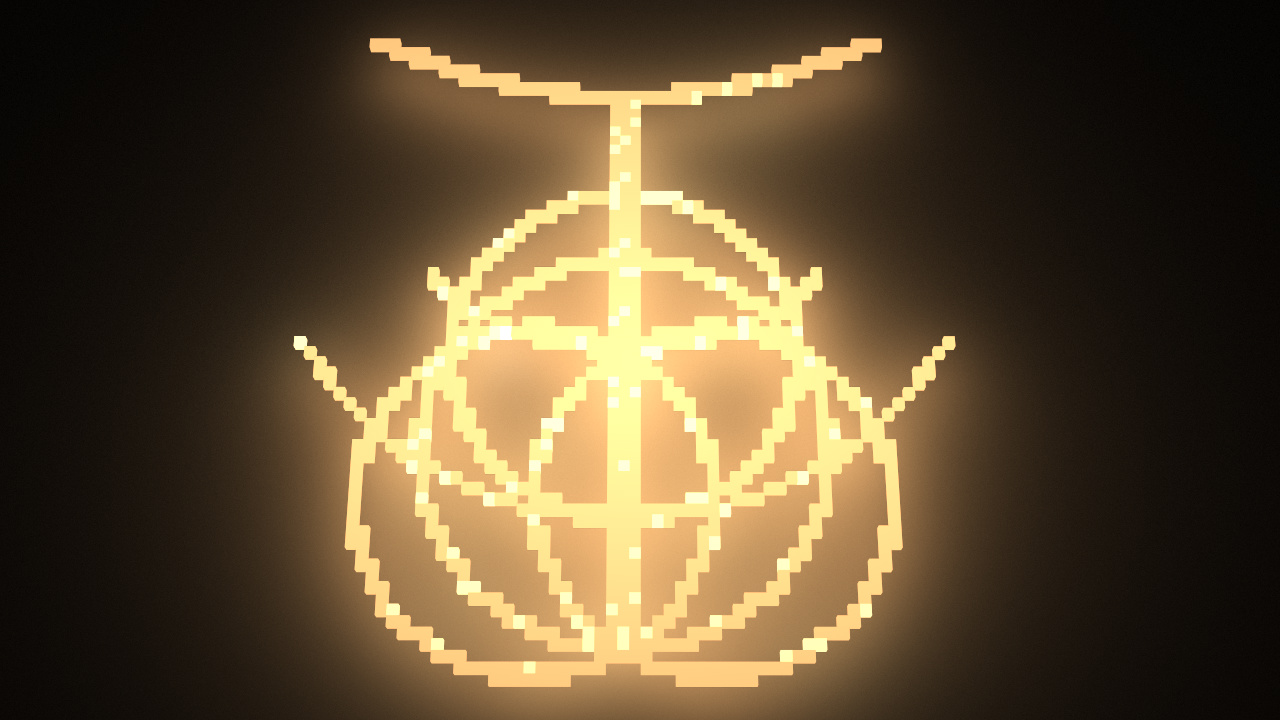
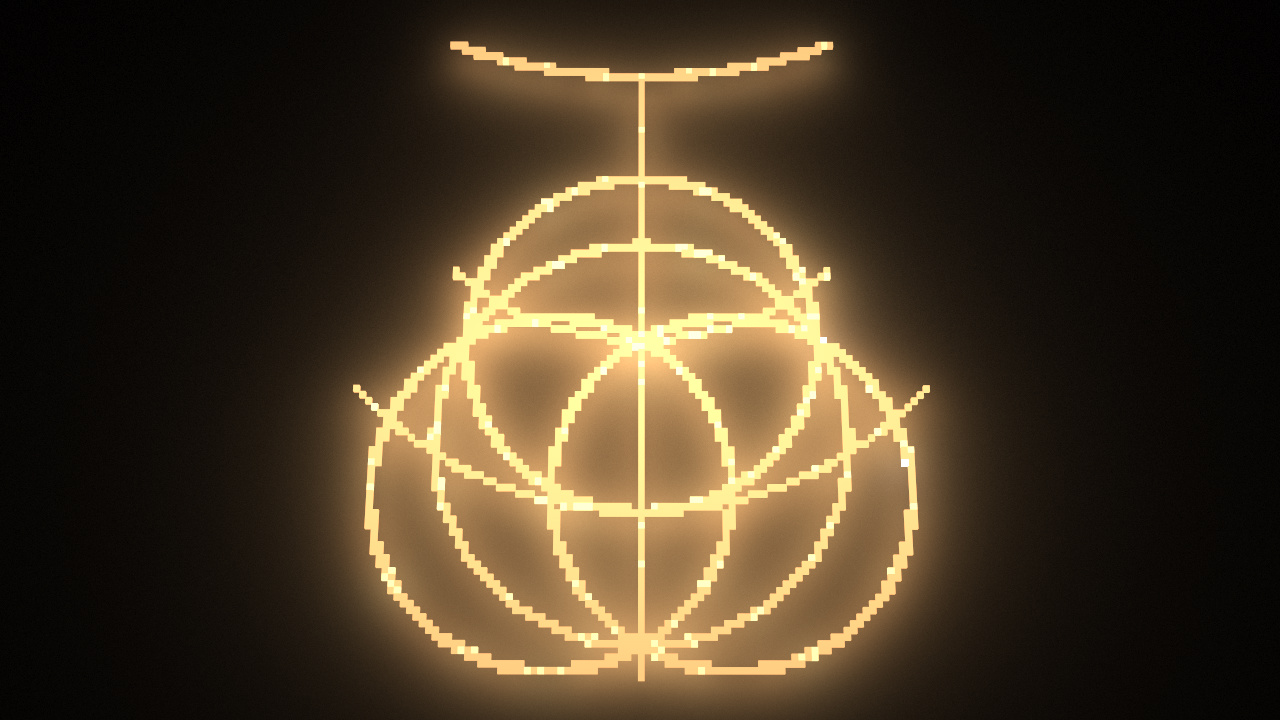
update to -64, 64 index

diff --git a/main.py b/main.py
@@ -11,7 +11,7 @@ def rgb(r, g, b):
     return vec3(r / 255.0, g / 255.0, b / 255.0)
 
 
-small_ring_radius = 16
+small_ring_radius = 28
 big_ring_radius = int(small_ring_radius * 2 / (3 ** 0.5))
 small_ring_center_offset = 3 ** 0.5 / 6 * 2 * small_ring_radius / 2
 tri_perpendicular_length = 3 ** 0.5 / 3 * small_ring_radius
@@ -31,7 +31,7 @@ def draw_radius(v, circle_center, circle_radius, precision=0.7):
 
 
 n = 64
-center_pos = [n / 2, n / 2 + 10]
+center_pos = [0, 10]
 big_ring, big_radius = get_circle((center_pos[0] + small_ring_radius, center_pos[1] + tri_perpendicular_length),
                                   (center_pos[0] - small_ring_radius, center_pos[1] + tri_perpendicular_length),
                                   (center_pos[0], center_pos[1] - tri_perpendicular_length * 2))
@@ -39,11 +39,11 @@ big_ring, big_radius = get_circle((center_pos[0] + small_ring_radius, center_pos
 
 @ti.func
 def draw_arc(v, circle_center, circle_radius, down_vector, max_degree=30, precision=0.7):
-    ob = v - circle_center
-    crossValue = ti.math.dot(ob, down_vector)
-    degree = ti.math.degrees(ti.acos(crossValue / (down_vector.norm() * ob.norm())))
-    return ti.abs(ti.math.distance(v, circle_center) - circle_radius) <= precision and degree < max_degree
-
+    # acos always equal pi/2 because f32 precision, now ti don't support f64 acos function
+    # ob = v - circle_center
+    # dotValue = ti.math.dot(ob, down_vector)
+    # degree = ti.math.degrees(ti.acos(dotValue / (down_vector.norm() * ob.norm())))
+    return ti.abs(ti.math.distance(v, circle_center) - circle_radius) <= precision and ti.abs(v[0]) <= max_degree
 
 @ti.func
 def draw_line(v, height_edge_bottom, height_edge_top, edge):
@@ -67,21 +67,21 @@ def initialize_voxels():
     arc_center2_radius = 67 / 31 * small_ring_radius
     arc_center3_radius = 97 / 31 * small_ring_radius
 
-    line_height_low = big_ring_center[1] + big_radius
+    line_height_low = big_ring_center[1] + big_radius + tri_perpendicular_length / 3
     line_height_top = arc_big_center[1] + arc_center3_radius
 
     down_vector = ti.Vector([0, -1])
 
-    for i, j in ti.ndrange(n, n):
+    for i, j in ti.ndrange((-n, n), (-n, n)):
         v = ti.Vector([i, j])
         if draw_radius(v, big_ring_center, big_radius, 0.7) \
-                or draw_radius(v, ring1_center, small_ring_radius) \
-                or draw_radius(v, ring2_center, small_ring_radius) \
-                or draw_radius(v, ring3_center, small_ring_radius) \
-                or draw_arc(v, arc1_center, arc_center1_radius, down_vector, 45, 0.5) \
-                or draw_arc(v, arc2_center, arc_center2_radius, down_vector, 60, 0.5) \
-                or draw_arc(v, arc_big_center, arc_center3_radius, down_vector, 30) \
-                or draw_line(v, line_height_top, line_height_low, 2):
+                or draw_radius(v, ring1_center, small_ring_radius, 0.8) \
+                or draw_radius(v, ring2_center, small_ring_radius, 0.8) \
+                or draw_radius(v, ring3_center, small_ring_radius, 0.8) \
+                or draw_arc(v, arc1_center, arc_center1_radius, down_vector, 30, 0.5) \
+                or draw_arc(v, arc2_center, arc_center2_radius, down_vector, 45, 0.5) \
+                or draw_arc(v, arc_big_center, arc_center3_radius, down_vector, 32) \
+                or draw_line(v, line_height_top, line_height_low, 1):
             random = ti.random()
             if random < 0.001:
                 scene.set_voxel(vec3(i, 1, j), 2, write)
